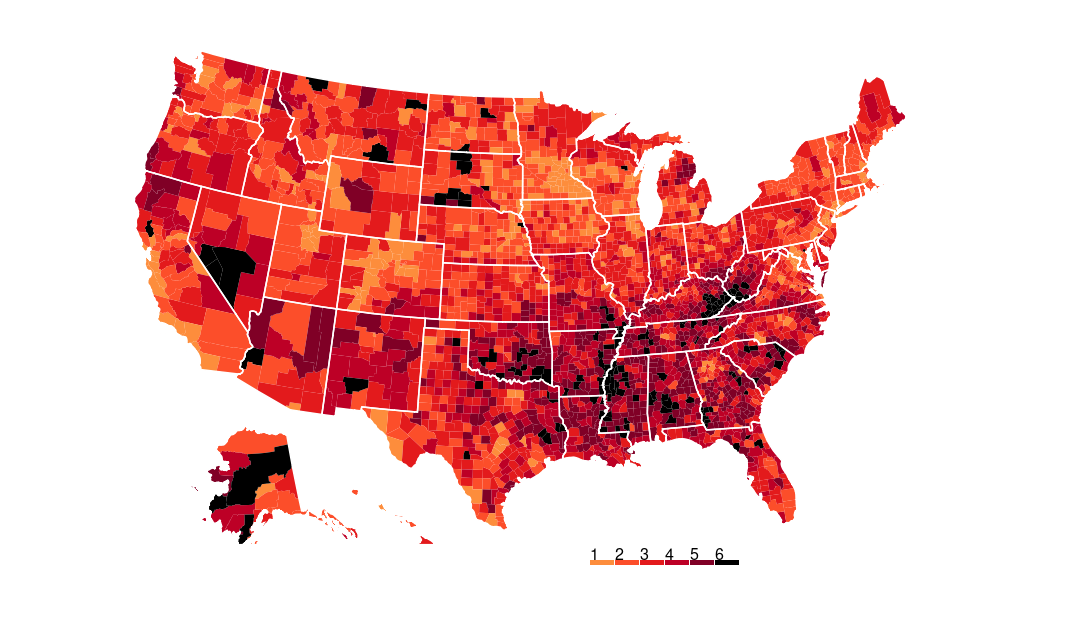
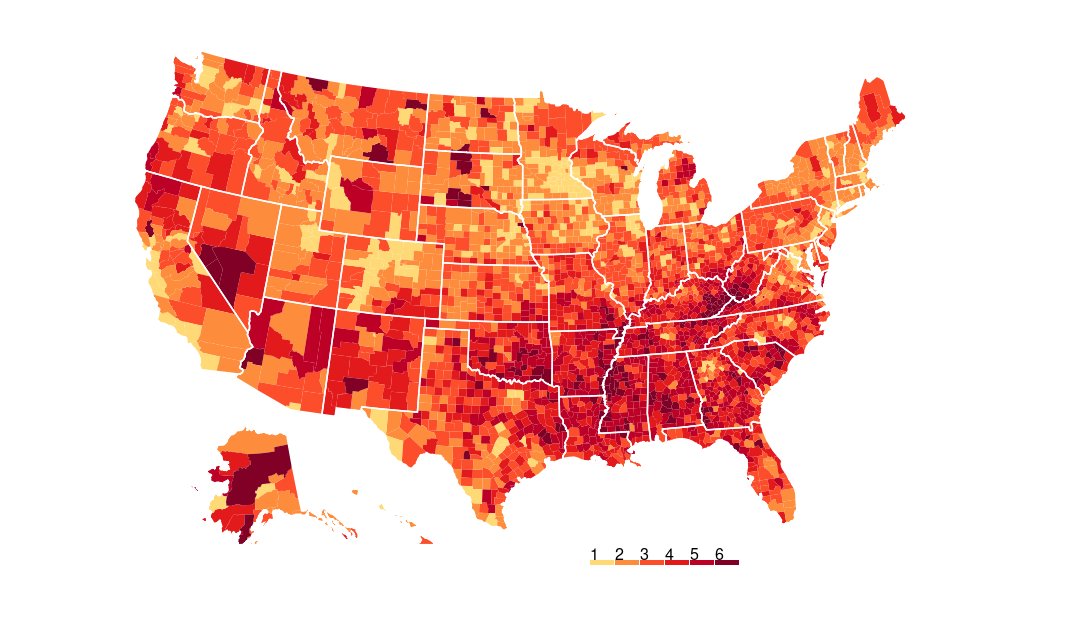
Regenerated national cluster maps with correct cluster colors. Map generators will now use correct colors.

diff --git a/www/d3_geo_animation.js b/www/d3_geo_animation.js
@@ -10,7 +10,7 @@ var root = svg
 function sequenceMap(index,tooltip,cause) {
   var clusters = [1,2,3,4,5,6]
   
-  var color = d3.scale.threshold()
+  var color = d3.scale.ordinal()
   .domain(clusters)
   .range(["#fed976", "#fd8d3c", "#fc4e2a", "#e31a1c", "#bd0026", "#800026"]);
   svg.selectAll('.state').transition()  //select all the state element and prepare for a transition to new values
@@ -44,7 +44,7 @@ r2d3.onRender(function(data, svg, width, height, options) {
   var usa_states = data[3];
   var clusters = [1,2,3,4,5,6]
   var death_rate = d3.map();
-  var color = d3.scale.threshold()
+  var color = d3.scale.ordinal()
   .domain(clusters)
   .range(["#fed976", "#fd8d3c", "#fc4e2a", "#e31a1c", "#bd0026", "#800026"]);
   
